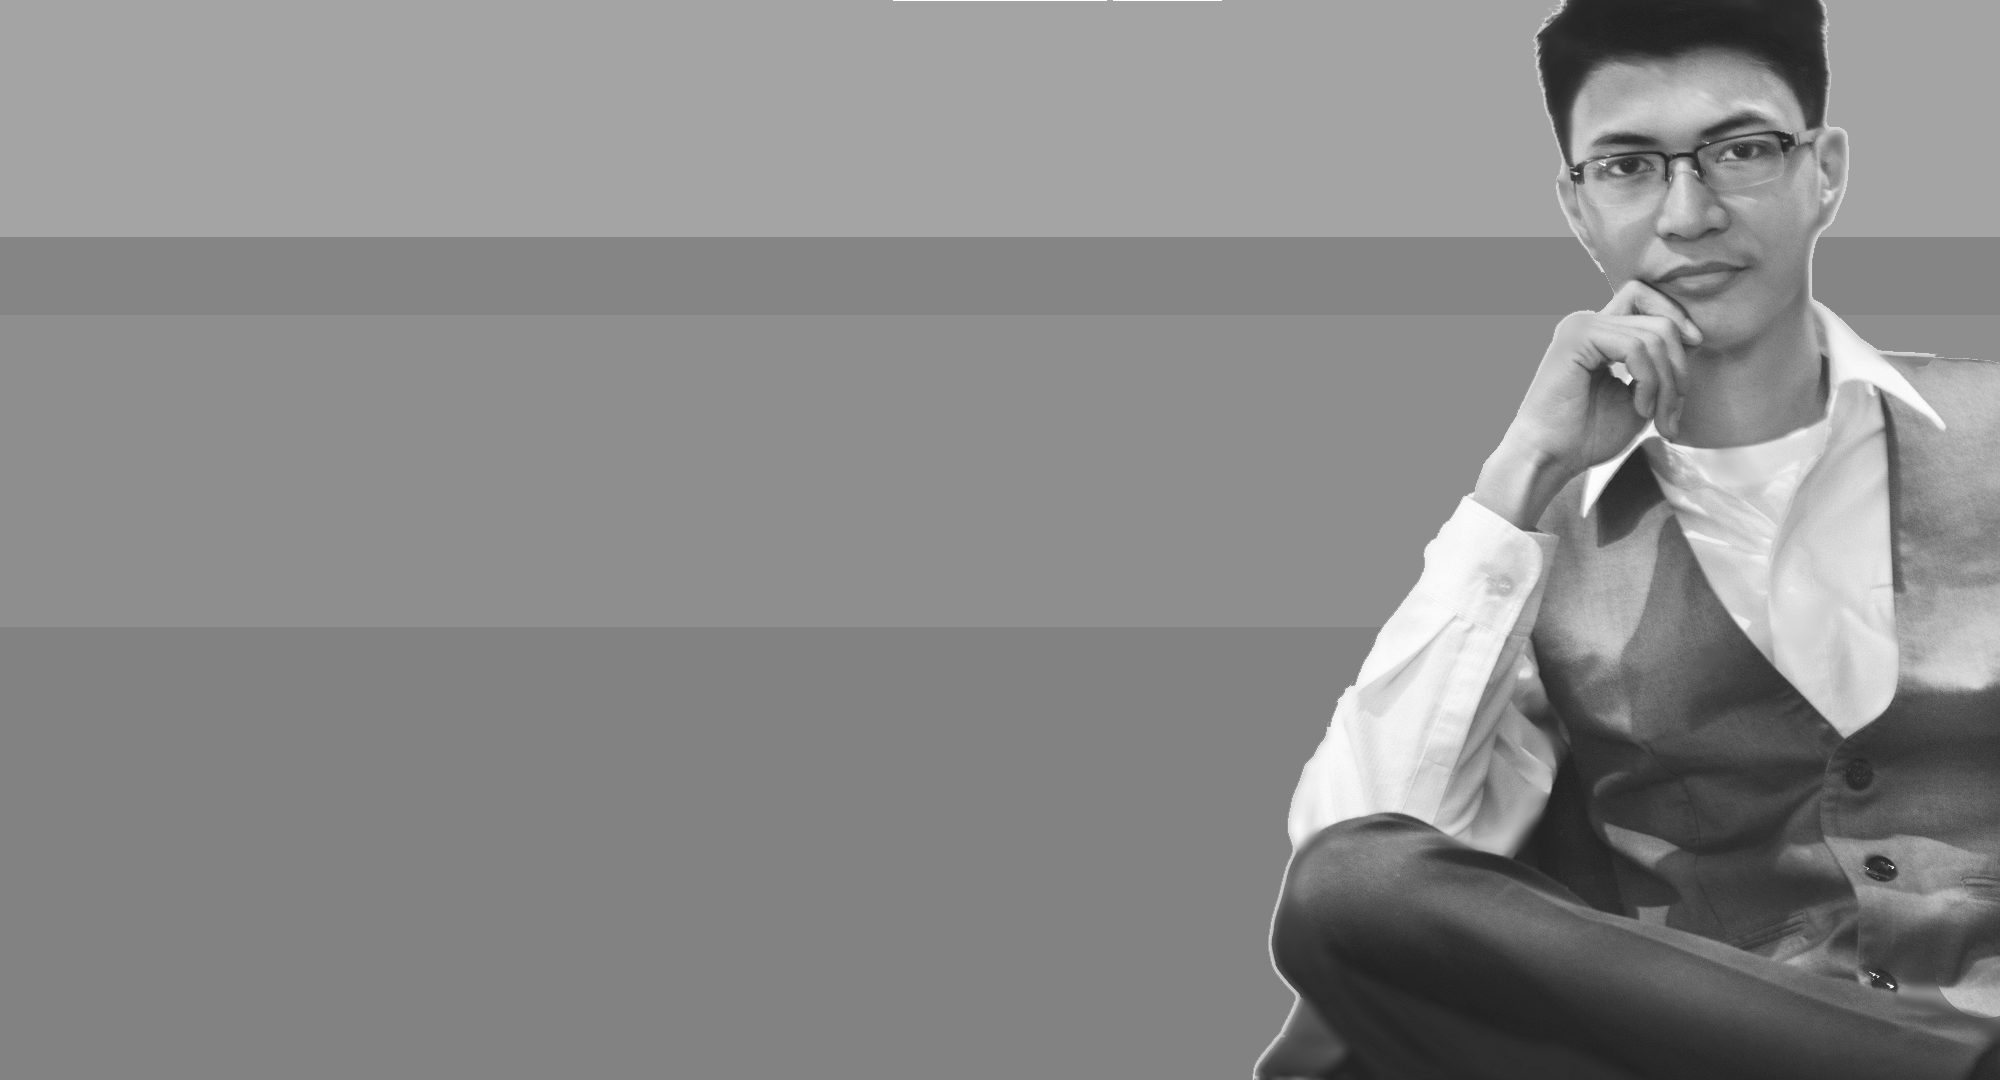
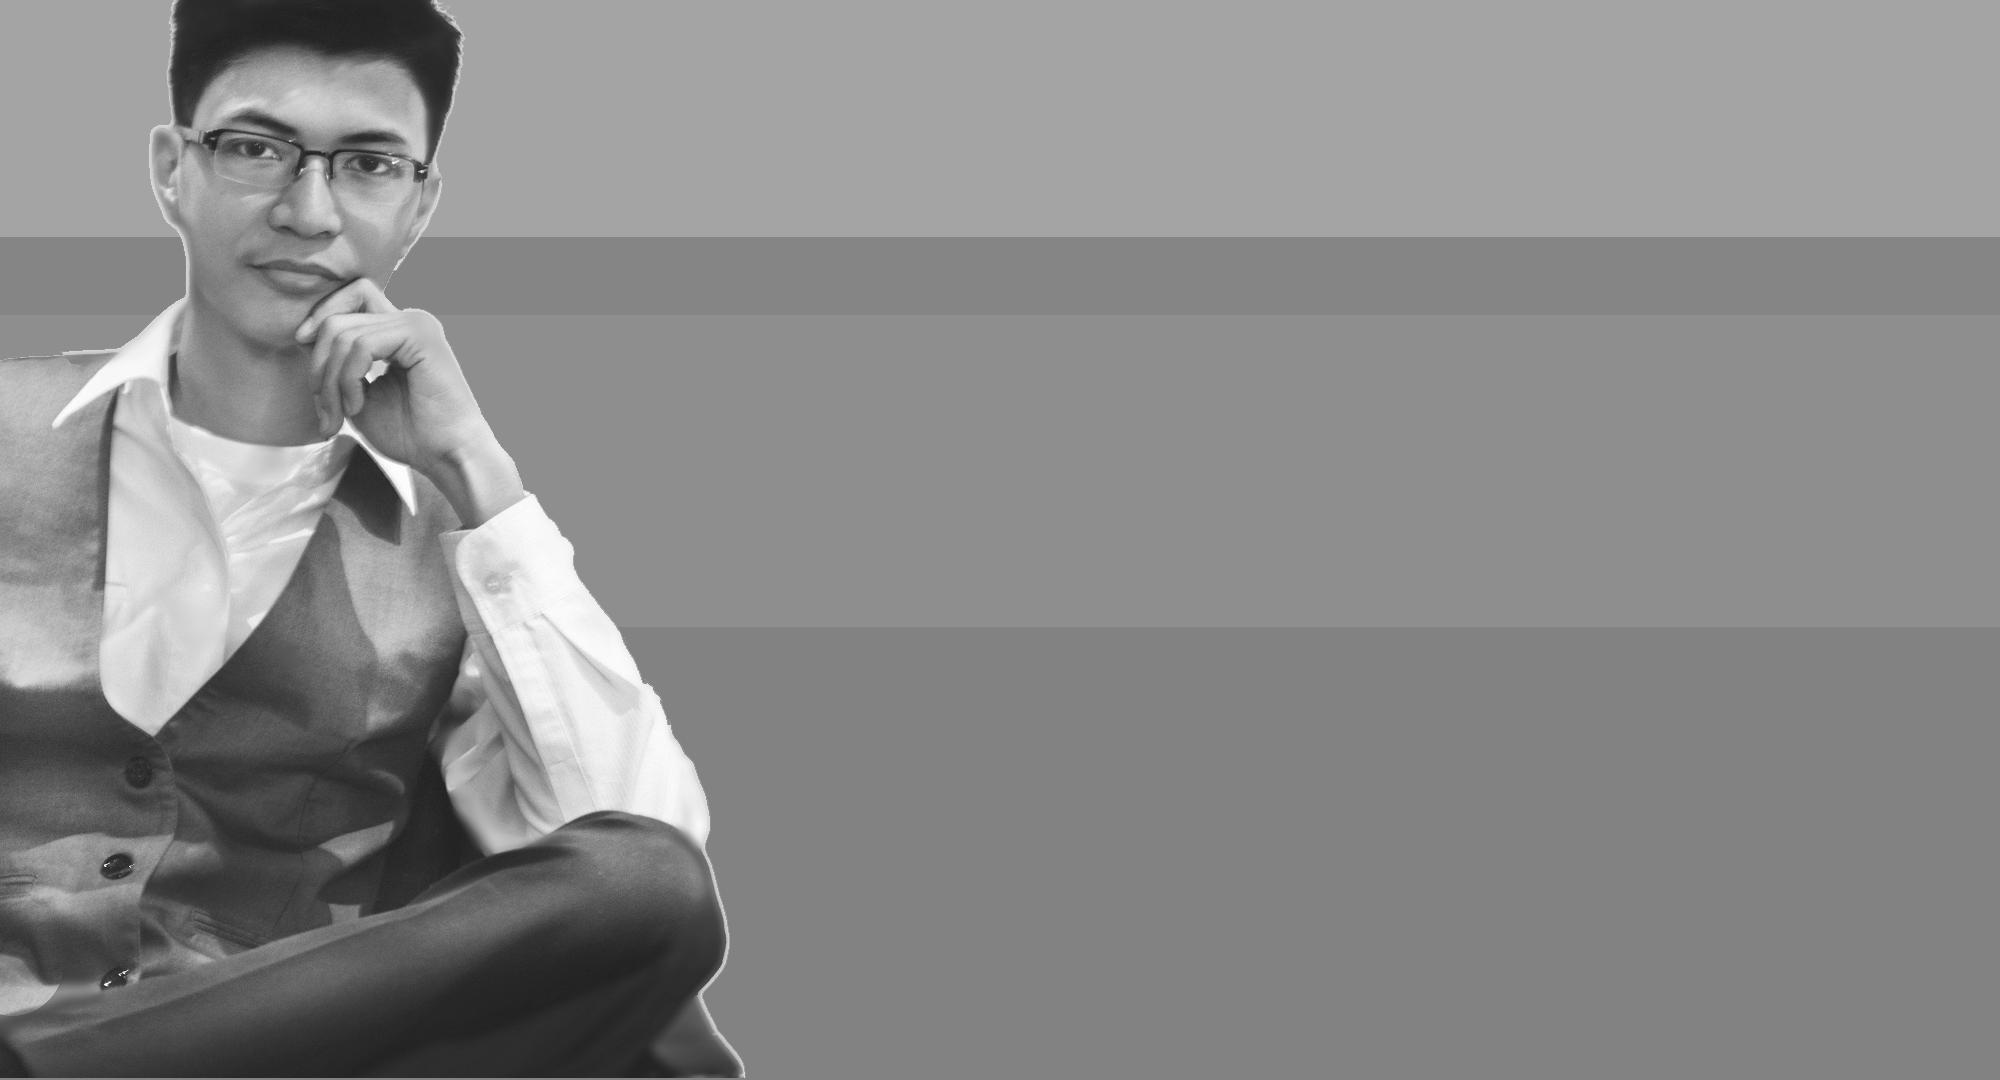
reverse image on contact, update css

diff --git a/index.html b/index.html
@@ -5,10 +5,7 @@
         <meta http-equiv="X-UA-Compatible" content="IE=edge">
         <meta name="viewport" content="width=device-width, initial-scale=1.0">
 
-        <!-- <link rel="stylesheet" href="https://cdn.jsdelivr.net/npm/bootstrap-icons@1.10.5/font/bootstrap-icons.css"> -->
-        
-        <link rel="shortcut icon" href="./favicon.svg" type="image/svg+xml">
-            <!-- BOOTSTRAP CSS v5 -->
+        <!-- BOOTSTRAP CSS v5 -->
         <link href="https://cdn.jsdelivr.net/npm/bootstrap@5.3.0/dist/css/bootstrap.min.css" rel="stylesheet" integrity="sha384-9ndCyUaIbzAi2FUVXJi0CjmCapSmO7SnpJef0486qhLnuZ2cdeRhO02iuK6FUUVM" crossorigin="anonymous">
 
         <!-- Google Font Added -->
@@ -30,8 +27,8 @@
         <!-- HEADER SECTION START -->
         <header class="container-fluid d-flex custom-color-3 justify-content-between align-items-center fixed-top">
             
-            <div data-aos="slide-right" data-aos-duration="800" id="logo">
-                <h3 class="ms-4 xlfont-xsmid">
+            <div data-aos="slide-right" data-aos-duration="1000" id="logo">
+                <h3 class="xlfont-xsmid">
                     <a href="#">
                     <span class="c-joker-blue">d°R</span>
                     <span class="c-gold">i°m</span>
@@ -39,7 +36,7 @@
                 </h3>
             </div> 
       
-            <div class="wrapper d-xxl-none d-xl-none d-lg-none d-md-block d-sm-block d-block mx-2 order-1">
+            <div class="wrapper d-xxl-none d-xl-none d-lg-none d-md-block d-sm-block d-block ps-5 order-1">
                 <main>
                     <input type="checkbox" id="menuToggler" class="input-toggler" data-nav-toggle-btn>
                         <label for="menuToggler" class="menu-toggler">
@@ -62,7 +59,7 @@
             </div>
             
             <div class="ms-auto d-none d-xxl-block d-xl-block d-lg-block d-md-none d-sm-none">
-                <div data-aos="slide-left" data-aos-duration="2500">
+                <div data-aos="slide-left" data-aos-duration="2000">
                     <nav class="my-navbar" data-navbar>
                         <a href="#landing" class="buttonx px-md-2 px-lg-2 active">HOME</a>
                         <a href="#about" class="buttonx px-md-2 px-lg-2 ">&#916;BOUT</a> 
@@ -73,7 +70,7 @@
                     </nav> 
                 </div>
             </div>  
-            <div class="align-content-center align-items-center">
+            <div class="align-content-center align-items-center pe-5">
                 <button class="order-0 theme-btn active" aria-label="Change Theme" title="Change Theme" data-theme-btn>
                     <span class="icon fa-solid fa-circle fa-lg"></span>
                 </button>
@@ -443,7 +440,7 @@
                         <div class="container-fluid">
                             <div class="row row-cols-1 row-cols-sm-1 row-cols-md-1 row-cols-lg-2 row-cols-xl-2 row-cols-xxl-3">
 
-                                <div class="my-5" data-aos="flip-up" data-aos-duration="1000">
+                                <div class="my-5" data-aos="flip-up" data-aos-duration="800">
                                     <div class="card h-100 w-100 blur-content-dark">
                                         <a href="https://m-dorio.github.io/foodstore/" target="_blank" rel="noopener noreferrer"><img src="./images/screenshots/proj-7.png" class="card-img-top p-3" alt="..."></a> 
                                         <div class="card-body">
@@ -456,7 +453,7 @@
                                     </div>
                                 </div>
 
-                                <div class="my-5" data-aos="flip-up" data-aos-duration="1000">
+                                <div class="my-5" data-aos="flip-up" data-aos-duration="800">
                                     <div class="card h-100 w-100 blur-content-dark">
                                         <a href="https://m-dorio.github.io/nyorasfarm/" target="_blank" rel="noopener noreferrer"><img src="./images/screenshots/proj-1.jpg" class="card-img-top p-3" alt="..."></a>
                                         
@@ -470,7 +467,7 @@
                                     </div>
                                 </div>
                                 
-                                <div class="my-5" data-aos="flip-up" data-aos-duration="1000">
+                                <div class="my-5" data-aos="flip-up" data-aos-duration="800">
                                     <div class="card h-100 w-100 blur-content-dark">
                                         <a href="https://m-dorio.github.io/pillowshop/" target="_blank" rel="noopener noreferrer">
                                             <img src="./images/screenshots/proj-4.jpg" class="card-img-top p-3" alt="...">
@@ -485,7 +482,7 @@
                                     </div>
                                 </div>
                             
-                                <div class="my-5" data-aos="flip-up" data-aos-duration="1000">
+                                <div class="my-5" data-aos="flip-up" data-aos-duration="800">
                                     <div class="card h-100 w-100 blur-content-dark">
                                         <a href="https://m-dorio.github.io/portfolio_01/" target="_blank" rel="noopener noreferrer"><img src="./images/screenshots/proj-3.jpg" class="card-img-top p-3" alt="..."></a>
                                         <div class="card-body">
@@ -500,7 +497,7 @@
                                 </div>
                             
                             
-                                <div class="my-5" data-aos="flip-up" data-aos-duration="1000">
+                                <div class="my-5" data-aos="flip-up" data-aos-duration="800">
                                     <div class="card h-100 w-100 blur-content-dark">
                                         <a href="https://m-dorio.github.io/pubrepo/" target="_blank" rel="noopener noreferrer"><img src="./images/screenshots/proj-2.jpg" class="card-img-top p-3" alt="..."></a>
                                         <div class="card-body">
@@ -513,7 +510,7 @@
                                     </div>
                                 </div>
                             
-                                <div class="my-5" data-aos="flip-up" data-aos-duration="1000">
+                                <div class="my-5" data-aos="flip-up" data-aos-duration="800">
                                     <div class="card h-100 w-100 blur-content-dark">
                                         <a href="https://m-dorio.github.io/bootstrap-mdorio/" target="_blank" rel="noopener noreferrer"><img src="./images/screenshots/proj-6.jpg" class="card-img-top p-3" alt="..."></a>
                                         <div class="card-body">

diff --git a/css/index.css b/css/index.css
@@ -214,11 +214,11 @@ transition: 1s ease-out;
   font-family: var(--Montserratt);
   align-self: center;
   white-space: wrap; 
-  text-shadow: 0 0 10px rgb(0, 0, 0);
+  text-shadow: 0 0 5px var(--cp-3);
   color:var(--cp-5);
 }
 .myname:hover{
-  text-shadow: 0 0 10px rgb(0, 0, 0);
+  text-shadow: 0 0 5px var(--cp-4);
   color:var(--cp-6);
 }
 
@@ -226,7 +226,7 @@ transition: 1s ease-out;
   font-family: var(--Titillium);
   align-self: center;
   white-space: wrap; 
-  text-shadow: 0 0 10px rgb(0, 0, 0);
+  text-shadow: 0 0 5px var(--cp-3);
 }
 
 #home-image{
@@ -336,11 +336,12 @@ ul li :any-link:hover{
   /* background:var(--gradient-bg); */
   background:var(--gradient-bg);
   background-color: var(--bg-primary);
-  background-image:url(../images/about-image2.png);
+  background-image:url(../images/about-image1.png);
   background-repeat: no-repeat;
   background-attachment: fixed !important;
   background-position: top right !important;
   background-size: cover;
+  transition: var(--transition-1);
 }
 
 #experience, #about, #tools, #projects{
@@ -361,11 +362,12 @@ ul li :any-link:hover{
   /* background:var(--gradient-bg); */
   background:var(--gradient-bg);
   background-color: var(--bg-primary);
-  background-image: url(../images/about-image1.png);
+  background-image: url(../images/about-image2.png);
   background-repeat: no-repeat;
   background-attachment: fixed !important;
   background-position: top right !important;
   background-size: cover;
+  transition: var(--transition-1);
 }
 
 
